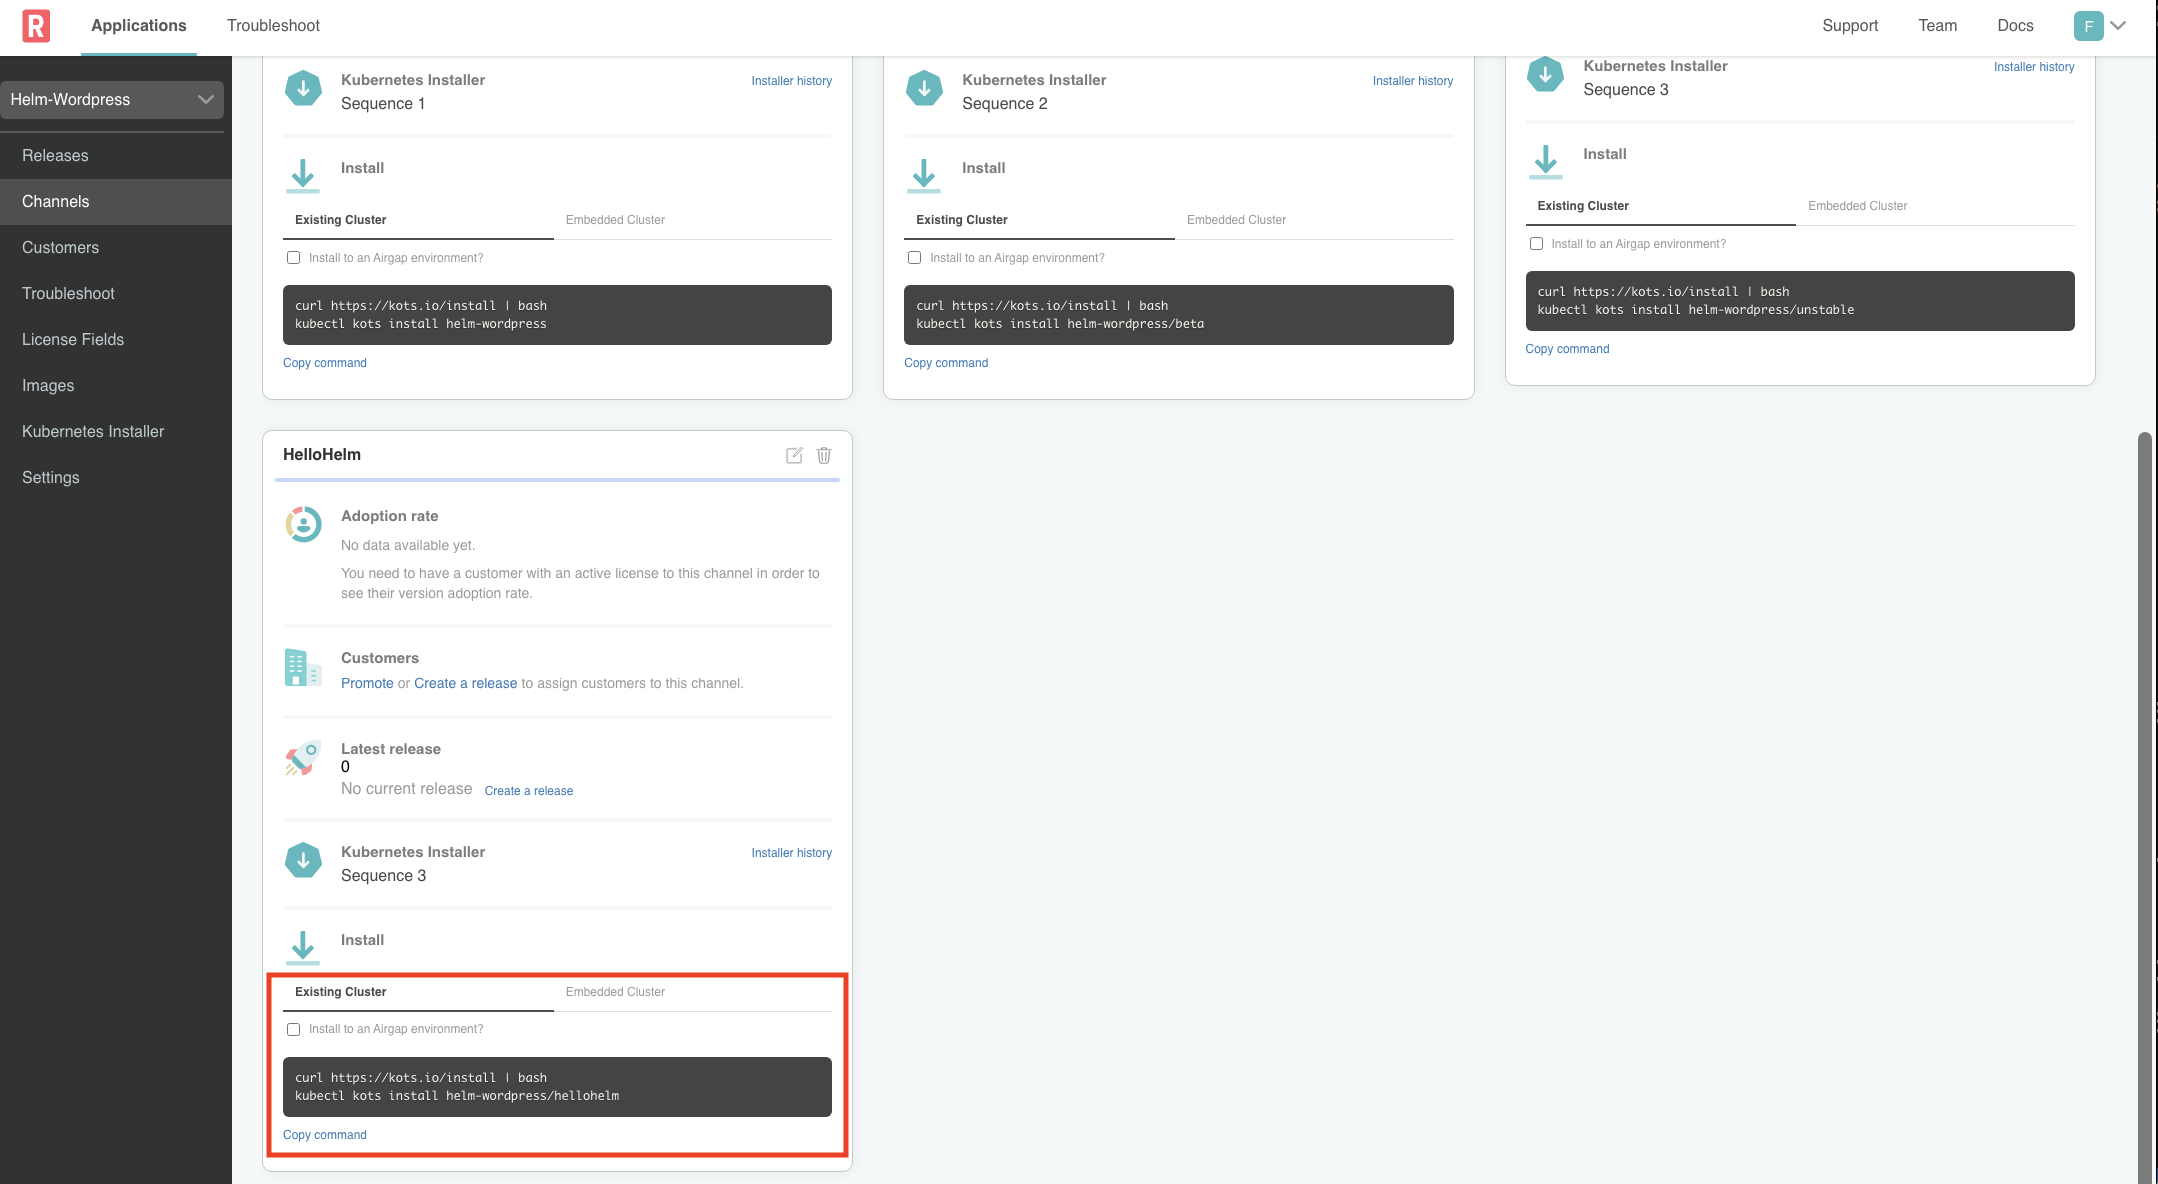
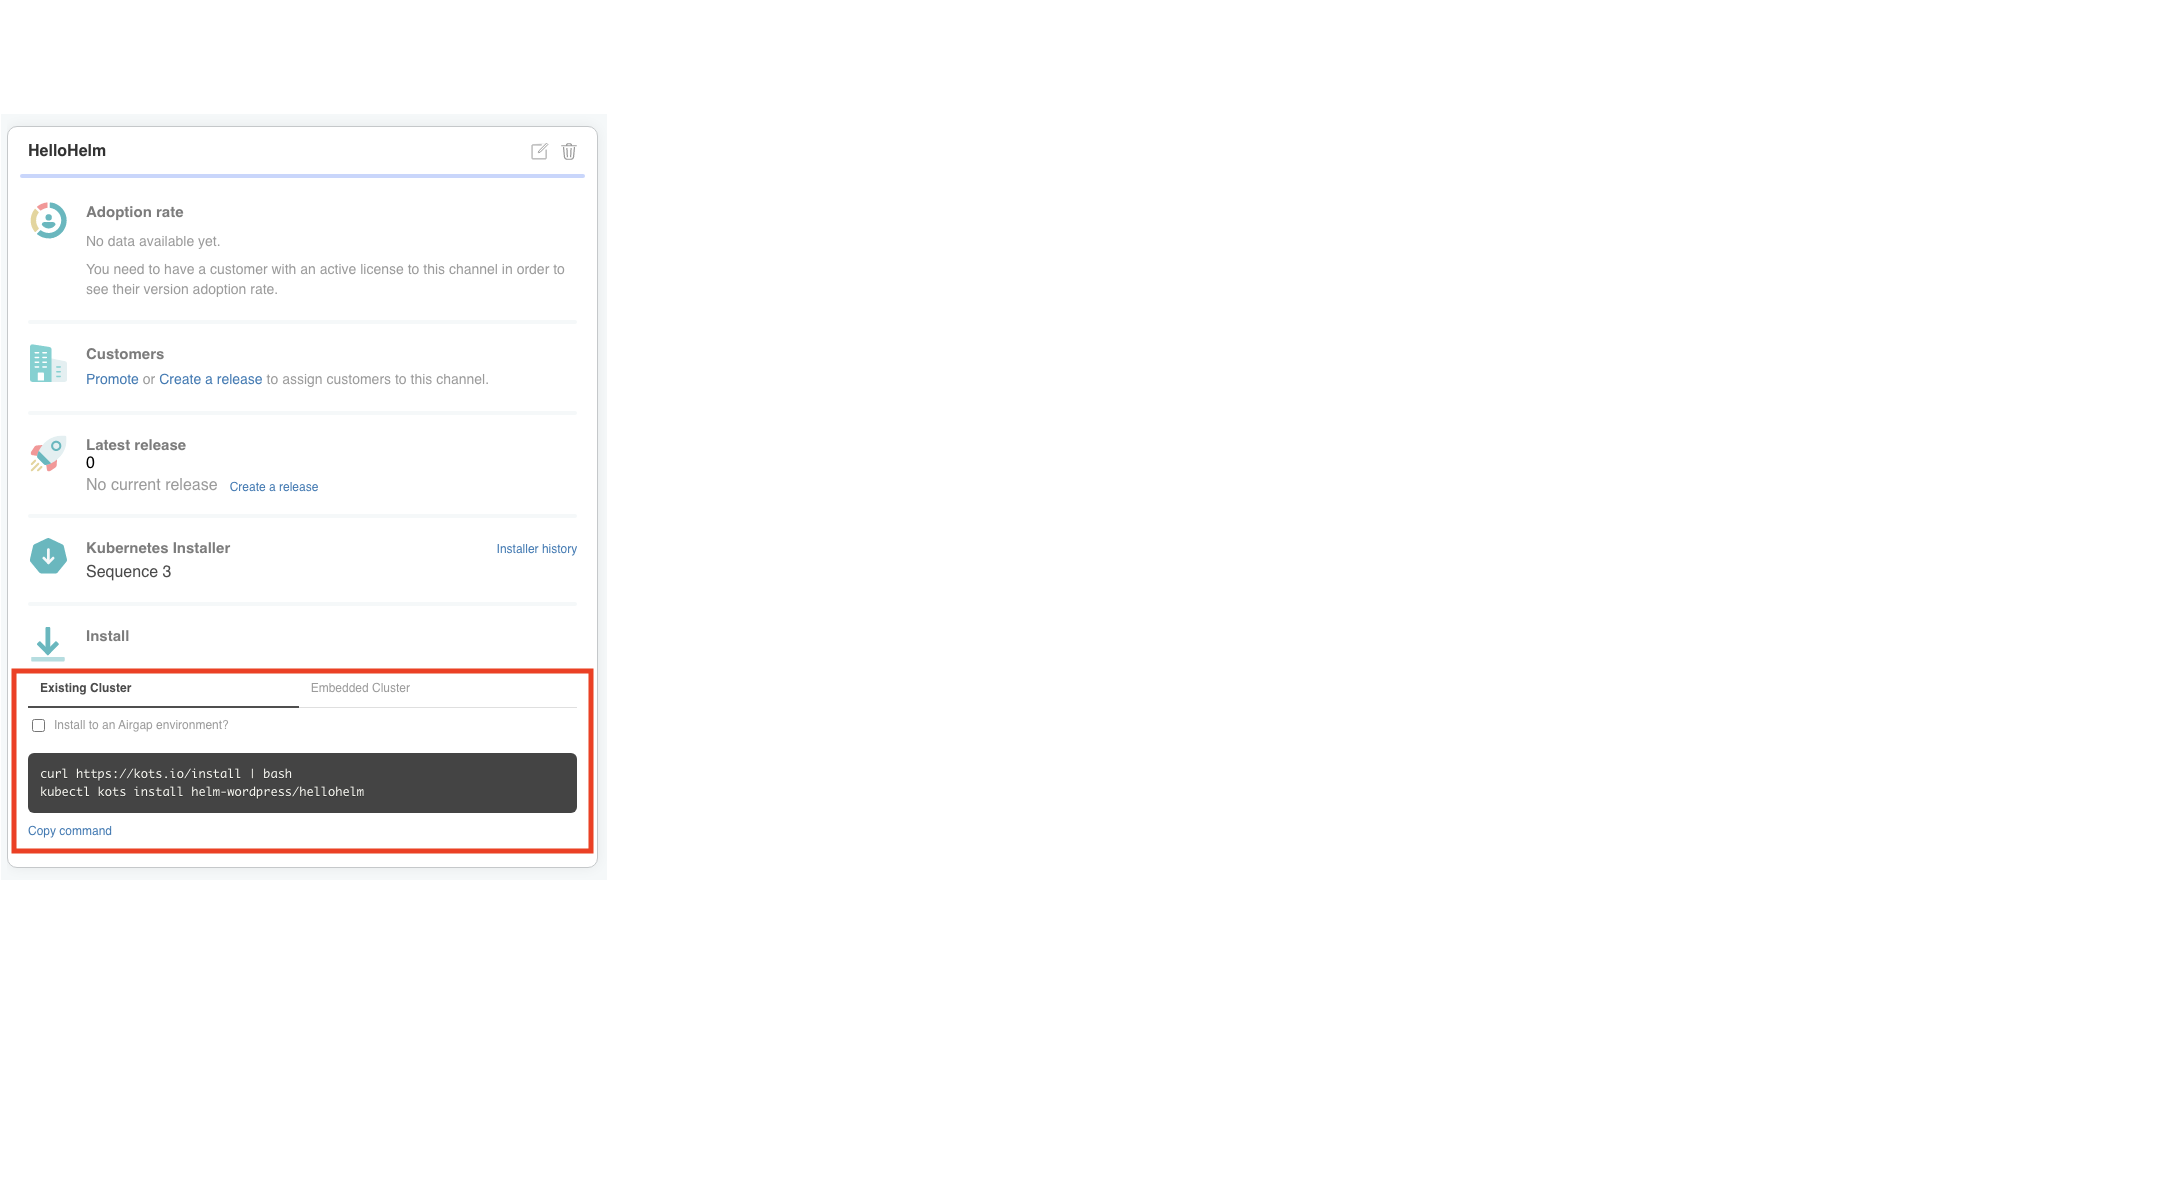
final touches

diff --git a/instruqt/helm-hello-world/02-getting/assignment.md b/instruqt/helm-hello-world/02-getting/assignment.md
@@ -57,6 +57,8 @@ We want to view the contents of the release, so to do that click on the icon as 
 
 You will see a file navigator similar to the one shown below. This view shows you the content of the current release. As you can see there are some files above the line and files below it. The files above are files used to configure some of the Replicated features. The files below are the ones needed to deploy the applicaiton, which in our case is Wordpress.
 
+<p align="center"><img src="../assets/release-contents.png" width=600></img></p>
+
 As you can see we are using the Wordpress Helm Chart, and in this view, the top level **Chart.yaml** and **Values.yaml** file are exposed. The **wordpress.yaml** is a file that declares how Replicated will manage the Chart. For example, you can override the default values, set up rules for optional charts and more.
 
 **Managing Values**
@@ -65,13 +67,15 @@ When installing from a Helm Chart, there are scenarios where the default values 
 
 <p align="center"><img src="../assets/values-overide.png" width=600></img></p>
 
-Note that for some values, teh value is not a hard coded value, rather it has something like `repl{{ ConfigOption ... }}` . This templating that allows you map a field
+Note that for some values, the value is not a hard coded value, rather it has something like `repl{{ ConfigOption ... }}` . This templating that allows you map a field
 
-**kots-app.yaml** This is a Replicated manifest that you can use to do things like configuring the icon, the application name, which ports to maybe exposse for the application UI, etc...
+## 3. Copy Install Command
 
-**kots-config.yaml**
+Go back to **Channels** and scroll down to the `hellohelm` channel. On the bottom of the channel card, select to copy the install command for `existing install`
 
-## 3. Download Customer File
+<p align="center"><img src="../assets/install-command.png" width=600></img></p>
+
+## 4. Download Customer File
 
 A customer license (downloadable as a `.yaml` file) is required to install any KOTS application.
 To create a customer license, go to `Customers > Wordpress Customer` by selecting the "Customers" link on the left in the Vendor Portal. Customers for each lab have already been created for you.

diff --git a/instruqt/helm-hello-world/04-wordpress-install/assignment.md b/instruqt/helm-hello-world/04-wordpress-install/assignment.md
@@ -41,24 +41,17 @@ Set the initial blog name in Wordpress
 
 ## Step 04
 
-Click `Continue` and watch the Preflights run. These preflights will validate the application environment.
-
-
-Once the preflights are finished, you can check the results which will look like below
-
-
-For now we will ignore the warnings and click `Continue`.
-
-## Step 05
 
 Once you clicked on `Continue`, the Application Installer will deploy the Wordpress Application.
 
+If you want to check the Wordpress App, wait for the Status Informers to show `Ready` and then click on the `Open Wordpress` link.
 
-
-If you want to check the Wordpress App, you can do so by clicking on `Open Wordpress`
+<p align="center"><img src="../assets/helm-admin-console.png" width=600></img></p>
 
 
 It will open a new tab and you should see something similar like the screenshot below:
+
+<p align="center"><img src="../assets/wordpress.png" width=600></img></p>
 
 
 🏁 Finish

diff --git a/instruqt/helm-hello-world/03-kots-install/assignment.md b/instruqt/helm-hello-world/03-kots-install/assignment.md
@@ -20,22 +20,21 @@ timelimit: 600
 ================
 
 In the previous challenge you already copied the installation command for an existing cluster:
+
 ```bash
 curl https://kots.io/install | bash
 kubectl kots install [YOUR-APP-NAME]/helloworld
 ```
 
-Run this command in the `Shell` tab. When asked for the `namespace`, you can just press enter and use the one suggested:
-
+Run this command in the `Shell` tab. When asked for the `namespace`, you can just press enter and use the one suggested.
 
 
 The installation will take a couple minutes, and ask to provide a secure password. Remember it as it will be needed in the next Challenge.
 
 
-
 Once finished you will see the following output:
 
-
+<p align="center"><img src="../assets/helm-vm-output.png" width=600></img></p>
 
 🏁 Finish
 =========
